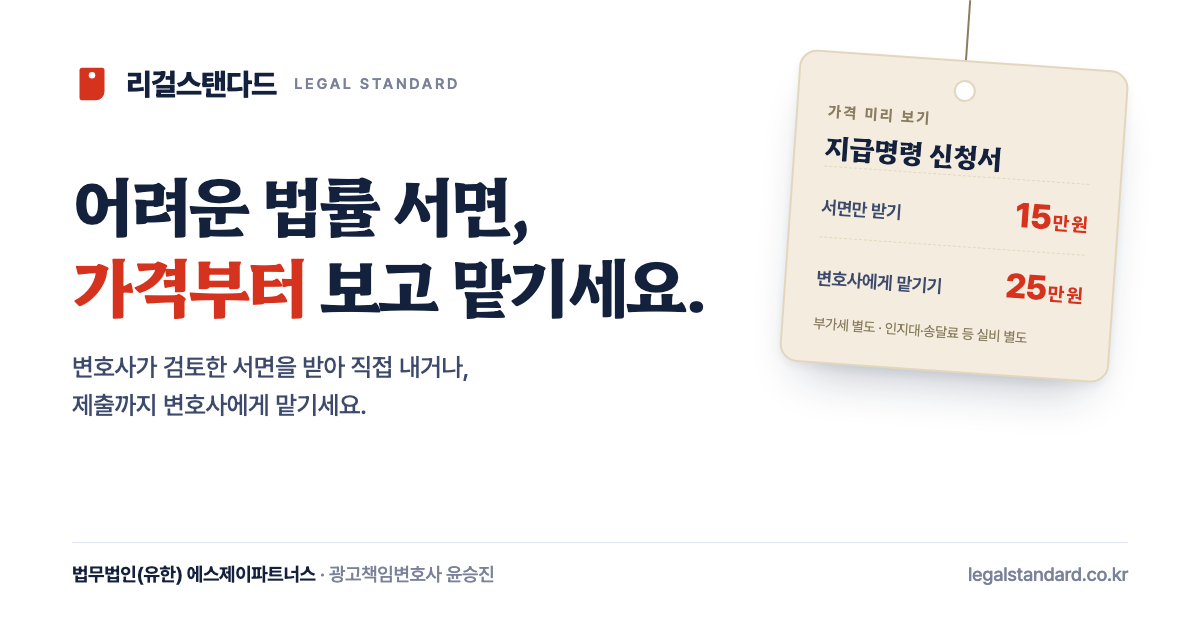
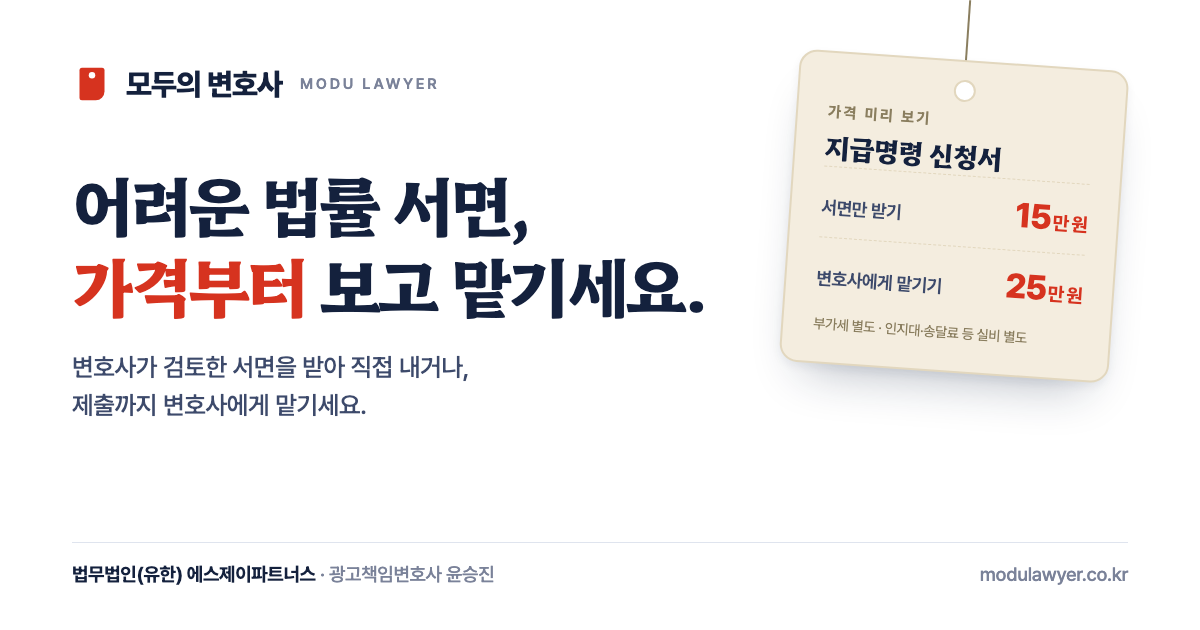
서비스명 변경: 리걸스탠다드 → 모두의 변호사 (화면·메일·약관·공유 썸네일, 수임약정 문안 버전 올림)

Changed region(s): [[0.0925, 0.0905, 0.37, 0.1508], [0.8017, 0.9048, 0.8942, 0.9349]]

diff --git a/src/app/(site)/about/page.tsx b/src/app/(site)/about/page.tsx
@@ -76,7 +76,7 @@ export default function AboutPage() {
               <div className="org-node"><b>{FIRM.brand}</b><small>정찰제 상품 · 온라인 접수</small></div>
               <div className="org-node"><b>법인 본체</b><small>복잡하거나 금액이 큰 사건</small></div>
             </div>
-            <p className="sub" style={{ marginTop: 16, textAlign: 'center' }}>리걸스탠다드로 접수했더라도 정해진 범위를 넘으면 법인 본체 변호사에게 바로 넘겨 드립니다.</p>
+            <p className="sub" style={{ marginTop: 16, textAlign: 'center' }}>모두의 변호사로 접수했더라도 정해진 범위를 넘으면 법인 본체 변호사에게 바로 넘겨 드립니다.</p>
           </Reveal>
         </div>
       </section>
@@ -84,7 +84,7 @@ export default function AboutPage() {
       <section className="band band-mist">
         <div className="container">
           <h2>검토 변호사</h2>
-          <p className="lead" style={{ marginTop: 0 }}>리걸스탠다드의 서면은 아래 변호사들이 검토하고 서명합니다.</p>
+          <p className="lead" style={{ marginTop: 0 }}>모두의 변호사에서 받는 서면은 아래 변호사들이 검토하고 서명합니다.</p>
           <div className="grid grid-3" style={{ marginTop: 28 }}>
             {LAWYERS.map((n, i) => (
               <Reveal key={n} delay={i * 90} className="lawyer-card">

diff --git a/src/lib/copy.ts b/src/lib/copy.ts
@@ -28,7 +28,7 @@ const TRACKS = {
     qualityBody:
       '고객에게 나가는 서면은 빠짐없이 담당 변호사가 검토하고 서명합니다. 검토 완료 처리가 되지 않은 서면은 시스템에서 발송할 수 없게 막아 두었습니다.',
     why: [
-      '리걸스탠다드는 대여금, 물품대금, 단순 고소처럼 자주 생기고 서면 구조가 정해진 사건만 다룹니다. 이런 사건은 물어볼 내용과 서면의 틀을 미리 정해 둘 수 있습니다. 접수, 자료 정리, 기한 관리는 시스템이 맡고, 변호사는 사실관계를 확인하고 서면을 고치는 데 시간을 씁니다.',
+      '모두의 변호사는 대여금, 물품대금, 단순 고소처럼 자주 생기고 서면 구조가 정해진 사건만 다룹니다. 이런 사건은 물어볼 내용과 서면의 틀을 미리 정해 둘 수 있습니다. 접수, 자료 정리, 기한 관리는 시스템이 맡고, 변호사는 사실관계를 확인하고 서면을 고치는 데 시간을 씁니다.',
       '같은 서면을 더 짧은 시간에 만들 수 있게 된 만큼 가격을 낮췄습니다. 서명과 책임은 그대로 담당 변호사가 집니다.',
     ],
   },

diff --git a/src/components/admin/AdminShell.tsx b/src/components/admin/AdminShell.tsx
@@ -7,6 +7,7 @@ import { BarChart3, ClipboardList, ExternalLink, LayoutDashboard, LogOut, Receip
 import { useAuth } from '@/components/AuthProvider';
 import { ReasonProvider } from '@/components/admin/ReasonDialog';
 import { api } from '@/lib/api';
+import { FIRM } from '@/lib/site';
 
 export interface Staff {
   id: number;
@@ -76,7 +77,7 @@ export default function AdminShell({ children }: { children: React.ReactNode }) 
       <ReasonProvider>
         <div className="admin">
           <aside className="admin-side">
-            <Link href="/admin" className="admin-brand"><span className="dot" aria-hidden="true" />리걸스탠다드<small>관리자</small></Link>
+            <Link href="/admin" className="admin-brand"><span className="dot" aria-hidden="true" />{FIRM.brand}<small>관리자</small></Link>
             <nav>
               {NAV.filter((n) => !n.adminOnly || staff.is_admin).map(({ href, label, icon: Icon, exact }) => {
                 const active = exact ? pathname === href : pathname.startsWith(href);

diff --git a/src/lib/site.ts b/src/lib/site.ts
@@ -6,8 +6,8 @@
  * TODO: 1577 대표번호를 받으면 tel 에 넣는다.
  */
 export const FIRM = {
-  brand: '리걸스탠다드',
-  brandEn: 'LEGAL STANDARD',
+  brand: '모두의 변호사',
+  brandEn: 'MODU LAWYER',
   name: '법무법인(유한) 에스제이파트너스',
   representative: '대표변호사 옥준원',
   adResponsibleLawyer: '광고책임변호사 윤승진',
@@ -18,7 +18,7 @@ export const FIRM = {
   bizNo: '397-86-02911',
   mailOrderNo: null as string | null,
   tel: null as string | null,
-  email: 'admin@legalstandard.co.kr',
+  email: 'admin@modulawyer.co.kr',
   hours: '평일 09:00–18:00 (온라인 접수는 상시)',
   // 개인정보 보호책임자(개인정보보호법 제31조)
   privacyOfficer: '개인정보 보호책임자 윤승진 (담당변호사)',

diff --git a/src/app/not-found.tsx b/src/app/not-found.tsx
@@ -1,12 +1,13 @@
 import Link from 'next/link';
 import { Compass } from 'lucide-react';
+import { FIRM } from '@/lib/site';
 
 // 루트 not-found 는 (site) 레이아웃 밖이라 헤더·푸터가 없다 — 홈으로 갈 길만 분명히 준다.
 export default function NotFound() {
   return (
     <main className="container section" style={{ textAlign: 'center', paddingTop: 120 }}>
       <Link href="/" className="logo" style={{ justifyContent: 'center', marginBottom: 32 }}>
-        <span className="dot" aria-hidden="true" />리걸스탠다드
+        <span className="dot" aria-hidden="true" />{FIRM.brand}
       </Link>
       <div className="status-screen"><span className="status-icon warn"><Compass size={30} /></span></div>
       <h1>페이지를 찾을 수 없습니다</h1>

diff --git a/src/components/AloneCompare.tsx b/src/components/AloneCompare.tsx
@@ -1,4 +1,5 @@
 import { Check, Minus } from 'lucide-react';
+import { FIRM } from '@/lib/site';
 
 /**
  * 홈 "혼자 쓸 때와 무엇이 다른가요" — 서면을 혼자 준비할 때 빠지기 쉬운 부분과 우리가 하는 일을 나란히 둔다.
@@ -18,7 +19,7 @@ export default function AloneCompare() {
     <div className="alone-wrap">
       <table className="alone">
         <thead>
-          <tr><th scope="col"><span className="sr-only">항목</span></th><th scope="col">혼자 준비할 때</th><th scope="col">리걸스탠다드</th></tr>
+          <tr><th scope="col"><span className="sr-only">항목</span></th><th scope="col">혼자 준비할 때</th><th scope="col">{FIRM.brand}</th></tr>
         </thead>
         <tbody>
           {ROWS.map((r) => (

diff --git a/src/lib/seo.ts b/src/lib/seo.ts
@@ -8,7 +8,7 @@ export const ALLOW_INDEXING = process.env.NEXT_PUBLIC_ALLOW_INDEXING === 'true';
 
 export const NOINDEX = { index: false, follow: false } as const;
 
-export const SITE_NAME = '리걸스탠다드';
+export const SITE_NAME = '모두의 변호사';
 
 /** 공유 미리보기 이미지(src/app/opengraph-image.png). 하위 페이지의 openGraph 가 상위 값을 덮어쓰므로 pageMeta 에서도 넣는다. */
 export const OG_IMAGE = { url: '/opengraph-image.png', width: 1200, height: 630, alt: `${SITE_NAME} — 어려운 법률 서면, 가격부터 보고 맡기세요` };

diff --git a/src/app/(site)/privacy/page.tsx b/src/app/(site)/privacy/page.tsx
@@ -2,7 +2,7 @@ import { PageHead } from '@/components/ui';
 import { pageMeta } from '@/lib/seo';
 import { FIRM } from '@/lib/site';
 
-export const metadata = pageMeta({ title: '개인정보처리방침', description: '리걸스탠다드 개인정보처리방침', path: '/privacy' });
+export const metadata = pageMeta({ title: '개인정보처리방침', description: '모두의 변호사 개인정보처리방침', path: '/privacy' });
 
 /**
  * 개인정보처리방침 초안(2026-11, 개인정보보호법 제30조 기재 사항 기준). 법인 검토 후 시행일을 정한다.

diff --git a/src/app/(site)/terms/page.tsx b/src/app/(site)/terms/page.tsx
@@ -4,7 +4,7 @@ import { AUTOMATION_NOTICE } from '@/data/faq';
 import { pageMeta } from '@/lib/seo';
 import { FIRM } from '@/lib/site';
 
-export const metadata = pageMeta({ title: '이용약관', description: '리걸스탠다드 서비스 이용약관', path: '/terms' });
+export const metadata = pageMeta({ title: '이용약관', description: '모두의 변호사 서비스 이용약관', path: '/terms' });
 
 /**
  * 이용약관 초안(2026-11). 법인 검토 후 시행일을 정하고 "초안" 표시를 뗀다.

diff --git a/src/app/admin/layout.tsx b/src/app/admin/layout.tsx
@@ -1,7 +1,7 @@
 import AdminShell from '@/components/admin/AdminShell';
 import { NOINDEX } from '@/lib/seo';
 
-export const metadata = { title: { default: '관리자', template: '%s | 리걸스탠다드 관리자' }, robots: NOINDEX };
+export const metadata = { title: { default: '관리자', template: '%s | 모두의 변호사 관리자' }, robots: NOINDEX };
 
 export default function AdminLayout({ children }: { children: React.ReactNode }) {
   return <AdminShell>{children}</AdminShell>;

diff --git a/src/components/Footer.tsx b/src/components/Footer.tsx
@@ -11,7 +11,7 @@ const SERVICE_LINKS = [
 ];
 
 const INFO_LINKS = [
-  { href: '/about', label: '리걸스탠다드 소개' },
+  { href: '/about', label: '서비스 소개' },
   { href: '/notice', label: '서비스 운영 고지' },
   { href: '/terms', label: '이용약관' },
   { href: '/privacy', label: '개인정보처리방침', strong: true },

diff --git a/backend/app/core/notify.py b/backend/app/core/notify.py
@@ -20,14 +20,14 @@ from app.models.user import User
 logger = logging.getLogger("notify")
 
 MESSAGES = {
-    "paid": "[리걸스탠다드] {case_no} 접수·결제가 완료되었습니다. 담당 변호사가 24시간 내 수임 여부를 검토합니다.",
-    "accepted": "[리걸스탠다드] {case_no} 수임이 확정되었습니다. 서면 준비를 시작합니다.",
-    "rejected": "[리걸스탠다드] {case_no} 표준 서비스로 진행이 어려워 결제금액 전액을 환불했습니다. 사유는 내 사건에서 확인하실 수 있습니다.",
-    "delivered": "[리걸스탠다드] {case_no} 서면 발송·제출이 완료되었습니다. 내 사건에서 서면과 다음 단계를 확인하세요.",
-    "reminder": "[리걸스탠다드] 작성하신 {service} 접수({case_no})가 결제 전 상태입니다. 내 사건에서 이어서 진행하실 수 있습니다.",
-    "quoted": "[리걸스탠다드] {case_no} 견적이 준비되었습니다. 내 사건에서 금액과 안내를 확인해 주세요.",
-    "retainer": "[리걸스탠다드] {case_no} 변호사에게 맡기신 사건은 전자 수임약정 서명이 필요합니다. 내 사건에서 내용을 확인하고 서명해 주세요.",
-    "charge": "[리걸스탠다드] {case_no} 추가 요금(출석 등) 청구가 있습니다. 내 사건에서 일정과 금액을 확인해 주세요.",
+    "paid": "[모두의 변호사] {case_no} 접수·결제가 완료되었습니다. 담당 변호사가 24시간 내 수임 여부를 검토합니다.",
+    "accepted": "[모두의 변호사] {case_no} 수임이 확정되었습니다. 서면 준비를 시작합니다.",
+    "rejected": "[모두의 변호사] {case_no} 표준 서비스로 진행이 어려워 결제금액 전액을 환불했습니다. 사유는 내 사건에서 확인하실 수 있습니다.",
+    "delivered": "[모두의 변호사] {case_no} 서면 발송·제출이 완료되었습니다. 내 사건에서 서면과 다음 단계를 확인하세요.",
+    "reminder": "[모두의 변호사] 작성하신 {service} 접수({case_no})가 결제 전 상태입니다. 내 사건에서 이어서 진행하실 수 있습니다.",
+    "quoted": "[모두의 변호사] {case_no} 견적이 준비되었습니다. 내 사건에서 금액과 안내를 확인해 주세요.",
+    "retainer": "[모두의 변호사] {case_no} 변호사에게 맡기신 사건은 전자 수임약정 서명이 필요합니다. 내 사건에서 내용을 확인하고 서명해 주세요.",
+    "charge": "[모두의 변호사] {case_no} 추가 요금(출석 등) 청구가 있습니다. 내 사건에서 일정과 금액을 확인해 주세요.",
 }
 
 
